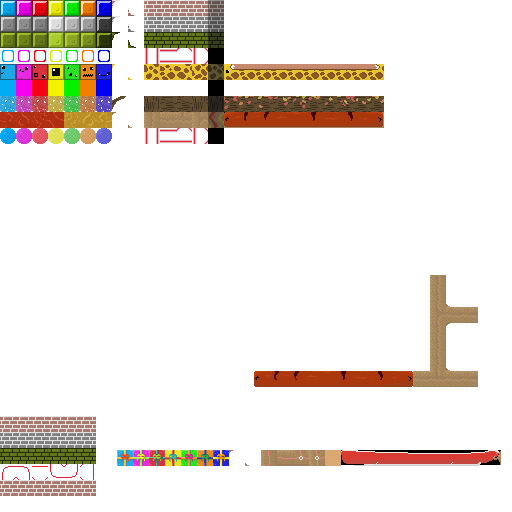
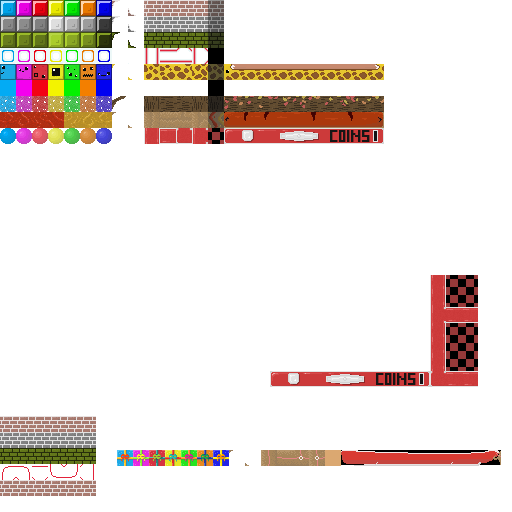
Added new Vending Machine skin

Changed region(s): [[0.5, 0.5312, 0.9375, 0.7812], [0.2812, 0.25, 0.75, 0.2812], [0.125, 0.25, 0.2188, 0.2812]]

diff --git a/Assets/Scripts/GUI/Menu/ChooseSkinMenu.cs b/Assets/Scripts/GUI/Menu/ChooseSkinMenu.cs
@@ -16,7 +16,8 @@ public class ChooseSkinMenu : ChooseMenu
             "Faces",
             "Neon",
             "Leaf Fall",
-            "Hot Dog"
+            "Hot Dog",
+            "Vending Machine"
         }.Select((string x, int i) => (x,
             (Action) (() => Config.SelectedSkin = i),
             (Action) (() => SetMenu<MainMenu>()))).ToArray();
@@ -24,6 +25,8 @@ public class ChooseSkinMenu : ChooseMenu
 
     protected override void OnShow()
     {
+        base.OnShow();
+        
         ActiveButtonIndex = Config.SelectedSkin;
         UpdateButtonDesign();
     }
